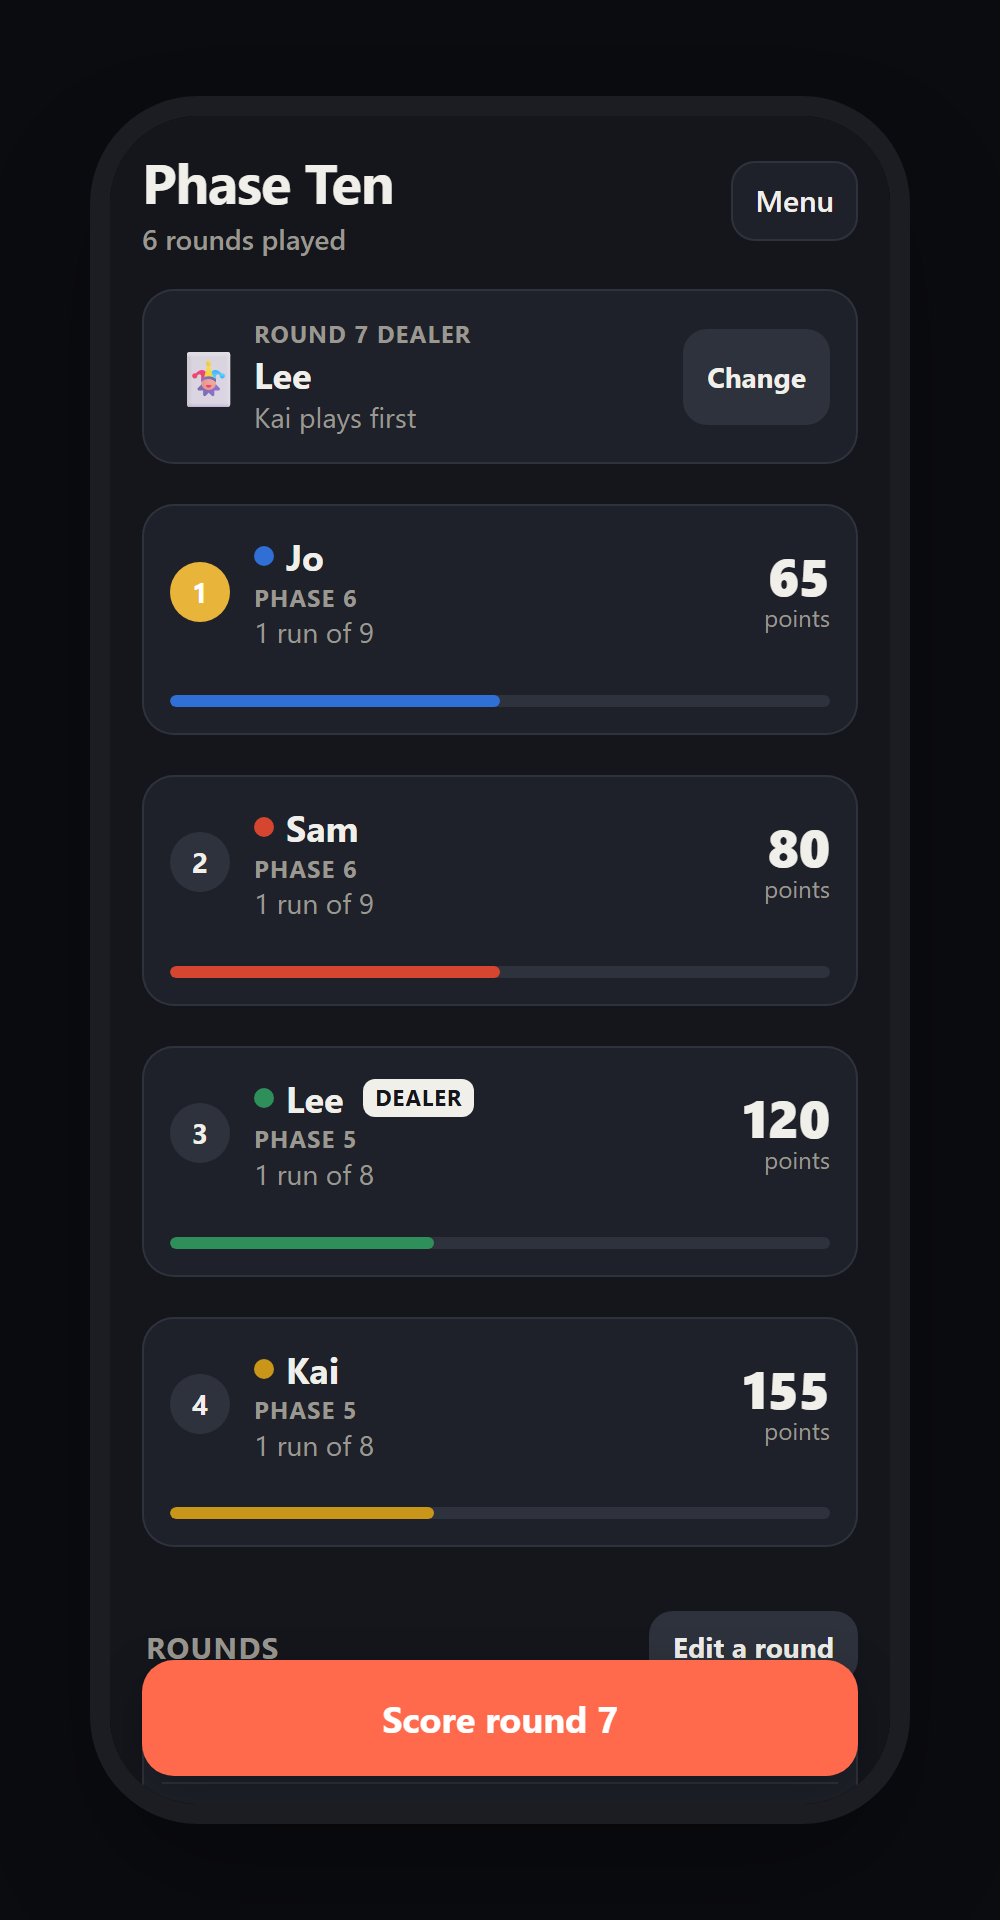
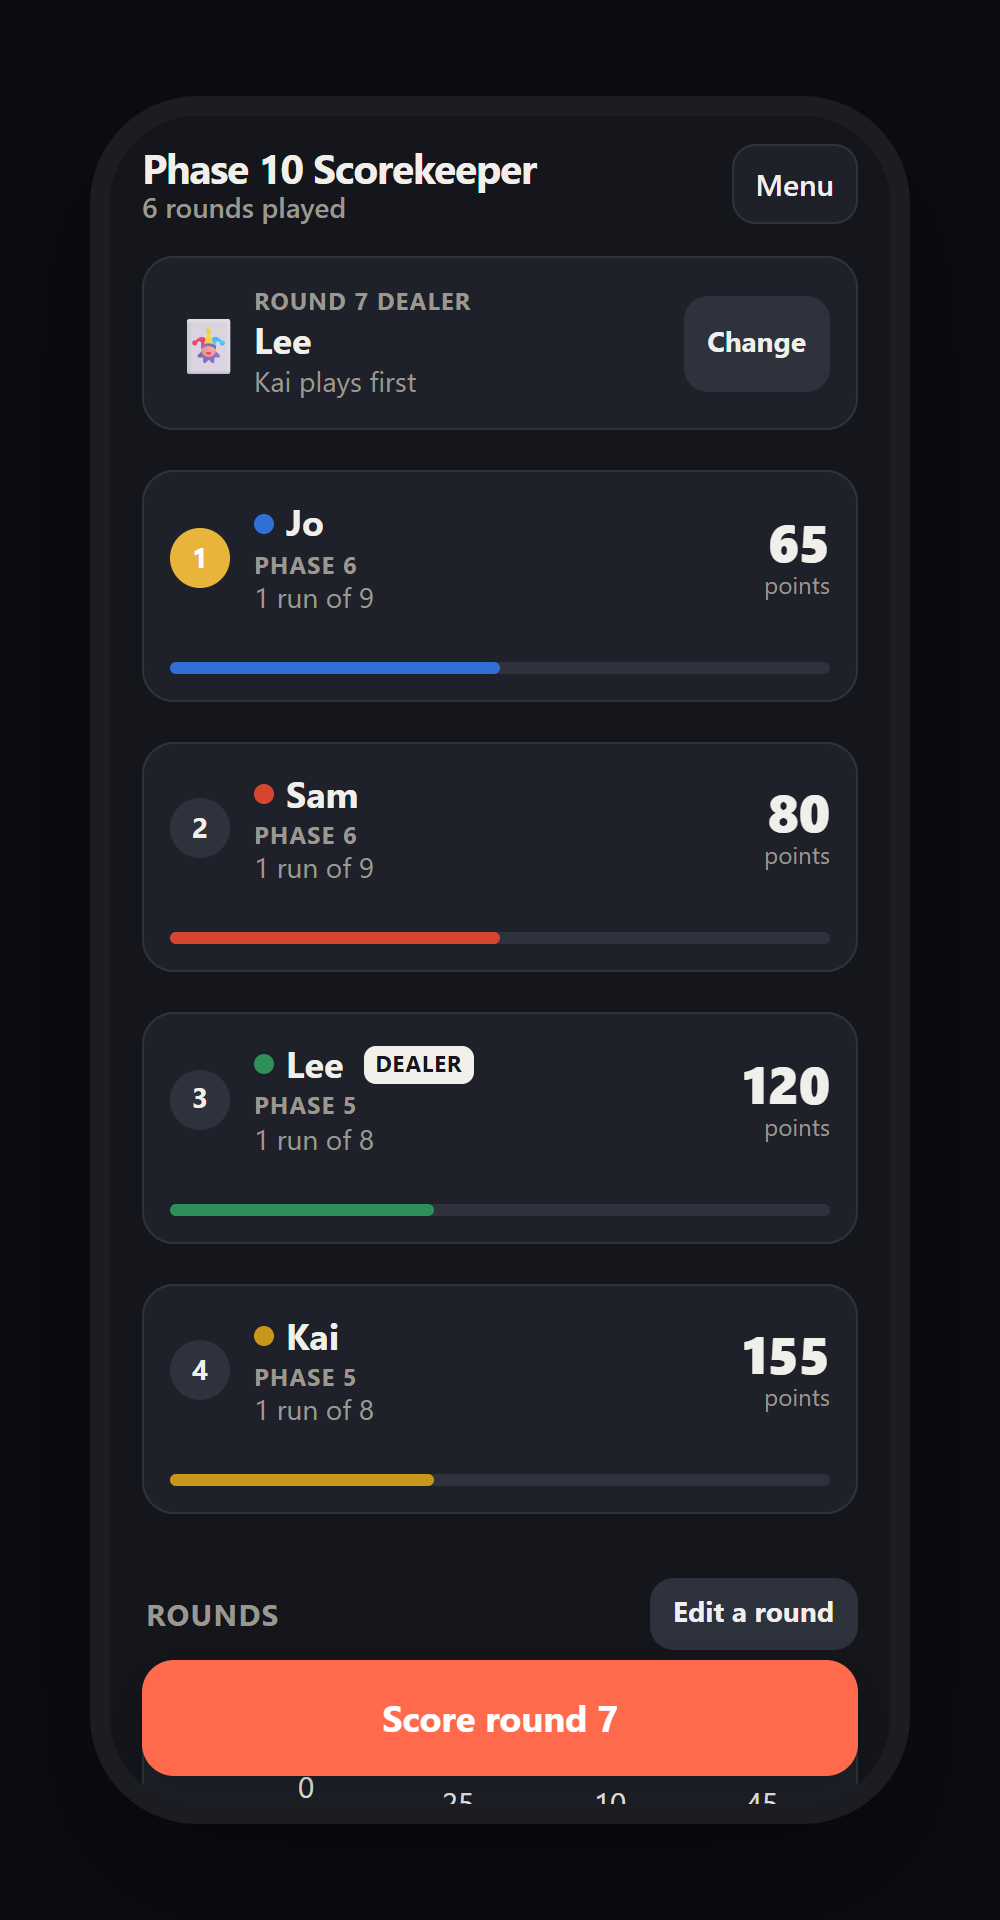
Rename to Phase 10 Scorekeeper and let players change seats mid-game (v13)
- Headline, page title, home-screen name, README and screenshots now say
  Phase 10 Scorekeeper. The headline shrinks a little on narrow phones so it
  stays on one line. Web address, repo name and storage key are unchanged.
- Menu, Players: up and down arrows change the seating order at any time.
  Points, made phases, past dealers and colours move with each player, and
  the same person still deals next.
- Colours are now stored per player; games saved before v13 look the same.

diff --git a/index.html b/index.html
@@ -3,11 +3,11 @@
 <head>
 <meta charset="utf-8">
 <meta name="viewport" content="width=device-width, initial-scale=1, maximum-scale=1, user-scalable=no, viewport-fit=cover">
-<title>Phase Ten Scorekeeper</title>
+<title>Phase 10 Scorekeeper</title>
 <meta name="apple-mobile-web-app-capable" content="yes">
 <meta name="mobile-web-app-capable" content="yes">
 <meta name="apple-mobile-web-app-status-bar-style" content="black-translucent">
-<meta name="apple-mobile-web-app-title" content="Phase Ten">
+<meta name="apple-mobile-web-app-title" content="Phase 10">
 <meta name="theme-color" content="#14161c">
 <link rel="manifest" href="manifest.webmanifest">
 <link rel="apple-touch-icon" href="icon-180.png">
@@ -36,7 +36,8 @@ html,body{margin:0;background:var(--bg);color:var(--ink);
   font:16px/1.35 -apple-system,BlinkMacSystemFont,"SF Pro Text",system-ui,sans-serif}
 body{padding:env(safe-area-inset-top) 0 calc(env(safe-area-inset-bottom) + 90px)}
 header{display:flex;align-items:center;gap:8px;padding:14px var(--gr) 6px var(--gl)}
-header h1{font-size:28px;margin:0;flex:1;letter-spacing:-.5px}
+/* shrinks a little on narrow phones so "Phase 10 Scorekeeper" stays on one line beside Menu */
+header h1{font-size:clamp(18px, 5.2vw, 28px);margin:0;flex:1;min-width:0;letter-spacing:-.5px;line-height:1.15}
 header h1 small{display:block;font-size:14px;color:var(--muted);font-weight:500;letter-spacing:0}
 .iconbtn{border:0;background:var(--card);color:var(--ink);border-radius:12px;height:40px;min-width:40px;
   padding:0 12px;font-size:15px;font-weight:600;box-shadow:0 0 0 1px var(--line) inset}
@@ -109,6 +110,7 @@ tr.tap{cursor:pointer}
 .namerow input{flex:1;min-width:0;height:48px;border-radius:12px;border:1px solid var(--line);background:var(--card);
   color:var(--ink);font-size:18px;padding:0 12px}
 .namerow button{width:48px;border:0;border-radius:12px;background:var(--line);color:var(--ink);font-size:20px}
+.namerow button:disabled{opacity:.35}
 ol.phases{padding-left:28px;margin:8px 0}
 ol.phases li{padding:8px 0;border-bottom:1px solid var(--line)}
 .menuitem{display:block;width:100%;text-align:left;font-weight:400;line-height:1.35;border:0;background:var(--card);color:var(--ink);font-size:17px;
@@ -164,7 +166,7 @@ a.menuitem{text-decoration:none;box-sizing:border-box}
 </head>
 <body>
 <header>
-  <h1>Phase Ten<small id="sub"></small></h1>
+  <h1>Phase 10 Scorekeeper<small id="sub"></small></h1>
   <button class="iconbtn" id="btnMenu" aria-label="Menu">Menu</button>
 </header>
 <div id="upd"></div>
@@ -215,8 +217,11 @@ const CARDS = [
   {k:"wild", label:"Wild", note:"25 points each", v:25}
 ];
 const COLORS = ["var(--p1)","var(--p2)","var(--p3)","var(--p4)","var(--p5)","var(--p6)"];
+// Each player keeps their colour when seats are reordered. Games saved before v13 have no
+// colours list, so seat 1 gets colour 1 and so on, exactly as before.
+const colorOf = (g, i) => COLORS[((g.colors && g.colors[i] != null) ? g.colors[i] : i) % 6];
 const KEY = "phase10.v1";          // where scores live; never changes between app versions
-const APP_VERSION = 12;
+const APP_VERSION = 13;
 const LINKS = {
   support: "https://nxlx.gumroad.com/l/phase-ten-scorekeeper",
   shop: "https://nxlx.gumroad.com",
@@ -269,7 +274,7 @@ function winner(g){
 
 /* ---------- main screen ---------- */
 function renderWelcome(){
-  $("#sub").textContent = "Score keeper";
+  $("#sub").textContent = "Works without internet";
   $("#btnRound").textContent = "Set up a game";
   $("#main").innerHTML = `
     <div class="card welcome">
@@ -304,12 +309,12 @@ function render(){
     h += `<div class="card player">
       <div class="rank ${lead?"first":""}">${idx+1}</div>
       <div>
-        <div class="pname"><span class="dot" style="background:${COLORS[p.i%6]}"></span>${esc(p.name)}${p.i===d && !w ? `<span class="dtag">Dealer</span>` : ""}</div>
+        <div class="pname"><span class="dot" style="background:${colorOf(g, p.i)}"></span>${esc(p.name)}${p.i===d && !w ? `<span class="dtag">Dealer</span>` : ""}</div>
         <div class="phasebadge">${p.finished ? "All 10 done" : "Phase "+p.phase}</div>
         <div class="pdesc">${p.finished ? "Finished" : esc(PHASES[p.phase-1])}</div>
       </div>
       <div class="right"><div class="big">${p.total}</div><div class="pts">points</div></div>
-      <div class="bar"><i style="width:${p.done*10}%;background:${COLORS[p.i%6]}"></i></div>
+      <div class="bar"><i style="width:${p.done*10}%;background:${colorOf(g, p.i)}"></i></div>
     </div>`;
   });
   h += `</div>`;
@@ -398,7 +403,7 @@ function drawRound(){
     const isOut = draft.pts[i]==="0";
     h += `<div class="card entry" data-entry="${i}">
       <div class="row1">
-        <div class="pname"><span class="dot" style="background:${COLORS[i%6]}"></span>${esc(name)}
+        <div class="pname"><span class="dot" style="background:${colorOf(g, i)}"></span>${esc(name)}
           <span class="pdesc" style="font-weight:400">· Phase ${ph}</span></div>
         <button class="toggle ${draft.made[i]?"on":""}" data-made="${i}">${draft.made[i]?"✓ Made phase":"Made phase?"}</button>
       </div>
@@ -498,7 +503,7 @@ function showAbout(){
     ${a(LINKS.support, "Support this app", "Pay what you want on Gumroad")}
     ${a(LINKS.shop, "More from NXLX", "Stage tools and updates on Gumroad")}
     ${a(LINKS.instagram, "Instagram", "@nxlx.systems")}
-    <p class="smallprint">Phase Ten Scorekeeper v${APP_VERSION}. The code is open to read on <a href="${LINKS.code}" target="_blank" rel="noopener">GitHub</a> under the PolyForm Noncommercial licence. Your scores stay on this device.</p>
+    <p class="smallprint">Phase 10 Scorekeeper v${APP_VERSION}. The code is open to read on <a href="${LINKS.code}" target="_blank" rel="noopener">GitHub</a> under the PolyForm Noncommercial licence. Your scores stay on this device.</p>
     <p class="smallprint"><b>Install it</b> to use it without internet:<br>${INSTALL.ios}<br>${INSTALL.android}<br>${INSTALL.desktop}</p>
     <p class="smallprint">Phase 10 is a trademark of Mattel, Inc. This app is not affiliated with or endorsed by Mattel.</p>`);
 }
@@ -515,7 +520,7 @@ function drawMenu(){
     <input type="file" id="fileIn" class="vh">
     <button class="menuitem" id="mCopy">Copy backup as text<span>Paste it into Notes or a message to keep it</span></button>
     <button class="menuitem" id="mPaste">Restore from pasted text<span>Use this if picking a file does not work</span></button>
-    <p class="hint" style="margin-top:16px">Phase Ten Scorekeeper v${APP_VERSION}. Phase 10 is a trademark of Mattel; this app is not affiliated with or endorsed by Mattel.</p>`;
+    <p class="hint" style="margin-top:16px">Phase 10 Scorekeeper v${APP_VERSION}. Phase 10 is a trademark of Mattel; this app is not affiliated with or endorsed by Mattel.</p>`;
   $("#mNew").onclick = () => { close("#sheetMenu"); startNew(); };
   if (!state.current) $("#mPlayers").style.display = "none";
   $("#mPlayers").onclick = () => showPlayers();
@@ -603,22 +608,47 @@ $("#pageBack").onclick = () => close("#sheetPage");
 
 function showPlayers(){
   const g = state.current, locked = g.rounds.length>0;
-  let names = [...g.players];
+  // One entry per seat, in seating order. "from" is the player's old seat (-1 for someone new),
+  // so their scores, dealing history and colour can follow them when seats are moved.
+  let seats = g.players.map((name,i) => ({name, from:i, color: (g.colors && g.colors[i] != null) ? g.colors[i] : i}));
+  const freeColor = () => [0,1,2,3,4,5].find(c => !seats.some(s => s.color === c)) ?? 0;
+  const move = (i, by) => { const j = i + by; if (j < 0 || j >= seats.length) return; [seats[i], seats[j]] = [seats[j], seats[i]]; draw(); };
   const draw = () => {
-    let h = names.map((n,i)=>`<div class="namerow"><input value="${esc(n)}" data-name="${i}" placeholder="Name">${
-      locked?"":`<button data-rm="${i}" aria-label="Remove">✕</button>`}</div>`).join("");
+    let h = `<p class="hint">Seating order, going left around the table. The deal passes in this order.</p>`;
+    h += seats.map((s,i)=>`<div class="namerow"><input value="${esc(s.name)}" data-name="${i}" placeholder="Name">
+      <button data-up="${i}" aria-label="Move ${esc(s.name || "player")} up" ${i===0?"disabled":""}>↑</button>
+      <button data-down="${i}" aria-label="Move ${esc(s.name || "player")} down" ${i===seats.length-1?"disabled":""}>↓</button>${
+      locked || seats.length<=2 ? "" : `<button data-rm="${i}" aria-label="Remove ${esc(s.name || "player")}">✕</button>`}</div>`).join("");
     h += locked
-      ? `<p class="hint">You can rename players now. To add or remove players, start a new game first.</p>`
-      : `<button class="wide" id="addP">Add player</button>`;
+      ? `<p class="hint">Use ↑ and ↓ if people are sitting in a different order. Scores move with each player, and the same person still deals next. To add or remove players, start a new game first.</p>`
+      : (seats.length < 6 ? `<button class="wide" id="addP">Add player</button>` : "");
     $("#pageBody").innerHTML = h;
-    document.querySelectorAll("[data-name]").forEach(inp => inp.oninput = () => names[+inp.dataset.name] = inp.value);
-    document.querySelectorAll("[data-rm]").forEach(b => b.onclick = () => { if (names.length>2){ names.splice(+b.dataset.rm,1); draw(); } });
-    const add = $("#addP"); if (add) add.onclick = () => { if (names.length<6){ names.push(""); draw(); } };
+    document.querySelectorAll("[data-name]").forEach(inp => inp.oninput = () => seats[+inp.dataset.name].name = inp.value);
+    document.querySelectorAll("[data-up]").forEach(b => b.onclick = () => move(+b.dataset.up, -1));
+    document.querySelectorAll("[data-down]").forEach(b => b.onclick = () => move(+b.dataset.down, 1));
+    document.querySelectorAll("[data-rm]").forEach(b => b.onclick = () => { if (seats.length>2){ seats.splice(+b.dataset.rm,1); draw(); } });
+    const add = $("#addP"); if (add) add.onclick = () => { if (seats.length<6){ seats.push({name:"", from:-1, color:freeColor()}); draw(); } };
   };
   showPage("Players", "", "Save", () => {
-    const clean = names.map((n,i)=>n.trim() || `Player ${i+1}`);
-    g.players = clean;
-    if (!locked) g.rounds = [];
+    const order = seats.map(s => s.from);              // order[newSeat] = oldSeat
+    const newSeat = old => order.indexOf(old);          // -1 if that player was removed
+    const moved = order.some((o,i) => o !== i) || order.length !== g.players.length;
+    if (locked && moved) {
+      const nd = nextDealer(g);                          // who deals next, before anything moves
+      g.rounds.forEach(r => {
+        r.pts = order.map(o => r.pts[o]);
+        r.made = order.map(o => r.made[o]);
+        if (r.dealer != null) r.dealer = newSeat(r.dealer);
+      });
+      g.firstDealer = Math.max(0, newSeat(g.firstDealer || 0));
+      g.dealerSet = newSeat(nd);                         // keep the same person on the next deal
+    } else if (!locked) {
+      g.firstDealer = Math.max(0, newSeat(g.firstDealer || 0));
+      g.dealerSet = null;
+      g.rounds = [];
+    }
+    g.players = seats.map((s,i) => s.name.trim() || `Player ${i+1}`);
+    g.colors = seats.map(s => s.color);
     save(); close("#sheetPage"); render();
   });
   draw();
@@ -647,7 +677,7 @@ async function exportData(){
   const name = `phase10-backup-${new Date().toISOString().slice(0,10)}.json`;
   const file = new File([text], name, {type:"application/json"});
   try {
-    if (navigator.canShare && navigator.canShare({files:[file]})) { await navigator.share({files:[file], title:"Phase Ten Scorekeeper backup"}); return; }
+    if (navigator.canShare && navigator.canShare({files:[file]})) { await navigator.share({files:[file], title:"Phase 10 Scorekeeper backup"}); return; }
   } catch(e){ if (e.name==="AbortError") return; }
   const a = document.createElement("a"); a.href = URL.createObjectURL(file); a.download = name; a.click();
 }

diff --git a/sw.js b/sw.js
@@ -2,7 +2,7 @@
 // The app files are saved on the phone and always opened from there (fast, works offline).
 // Updates only happen when the app asks for one (the "Update now" button), which clears
 // these saved files so the newest ones are downloaded. Scores are stored separately and are never touched.
-const CACHE = "phase10-v12";
+const CACHE = "phase10-v13";
 const FILES = ["./", "index.html", "manifest.webmanifest", "icon-180.png", "icon-192.png", "icon-512.png"];
 
 self.addEventListener("install", e => {

diff --git a/README.md b/README.md
@@ -1,8 +1,8 @@
 <p align="center">
-  <img src="icon-192.png" width="96" height="96" alt="Phase Ten Scorekeeper icon">
+  <img src="icon-192.png" width="96" height="96" alt="Phase 10 Scorekeeper icon">
 </p>
 
-<h1 align="center">Phase Ten Scorekeeper</h1>
+<h1 align="center">Phase 10 Scorekeeper</h1>
 
 <p align="center">
   <b>The score sheet for Phase 10<sup>*</sup>, on your phone, tablet or computer. No paper, no pencil, no internet needed.</b>
@@ -35,9 +35,10 @@
 | **Card counter** | Tap in the cards left in a hand (1 to 9, 10 to 12, Skip, Wild) and it adds the points and counts the cards for you. |
 | **Catches mistakes** | A player who missed their phase still holds 10 cards, so the app flags anything under 50 points. It also flags points that aren't in 5s and totals no hand can reach. |
 | **Dealer tracking** | Shows who deals and who plays first, and passes the deal each round. |
+| **Seating order** | Change the order players sit in at any time, even mid-game. Scores and colours move with each player, and the same person still deals next. |
 | **Fix mistakes** | Edit any past round from a clearly marked editing screen. |
 | **Past games** | Finished games are kept, with every round. |
-| **Backups** | Save your scores as a file, or copy them as text, and restore them on any phone. |
+| **Backups** | Save your scores as a file, or copy them as text, and restore them on any device. |
 | **Works offline** | Once it's installed it runs with no signal. |
 | **Light and dark** | Follows your device's setting. Works upright and sideways. |
 | **Private** | Scores stay on your device. No account, no tracking, no ads. |
@@ -88,7 +89,7 @@ The app is free. If it saves you a pencil, you can [pay what you want on Gumroad
 
 ## Licence
 
-The code is shared under the **[PolyForm Noncommercial License 1.0.0](LICENSE.md)**. You may use, study and change it for any noncommercial purpose, including personal use and use by charities, schools and public bodies. Selling it, or using it to make money, needs written permission from NXLX.Systems. The name Phase Ten Scorekeeper and the app icon are not covered by the licence.
+The code is shared under the **[PolyForm Noncommercial License 1.0.0](LICENSE.md)**. You may use, study and change it for any noncommercial purpose, including personal use and use by charities, schools and public bodies. Selling it, or using it to make money, needs written permission from NXLX.Systems. The name Phase 10 Scorekeeper and the app icon are not covered by the licence.
 
 ---
 
@@ -97,4 +98,4 @@ The code is shared under the **[PolyForm Noncommercial License 1.0.0](LICENSE.md
   <a href="https://nxlx.gumroad.com">Shop</a> · <a href="https://instagram.com/nxlx.systems">Instagram</a>
 </p>
 
-<sub>* Phase 10 is a trademark of Mattel, Inc. Phase Ten Scorekeeper is an independent score-keeping tool made by NXLX.Systems. It is not affiliated with, sponsored by or endorsed by Mattel. You need your own copy of the card game to play.</sub>
+<sub>* Phase 10 is a trademark of Mattel, Inc. Phase 10 Scorekeeper is an independent score-keeping tool made by NXLX.Systems. It is not affiliated with, sponsored by or endorsed by Mattel. You need your own copy of the card game to play.</sub>
